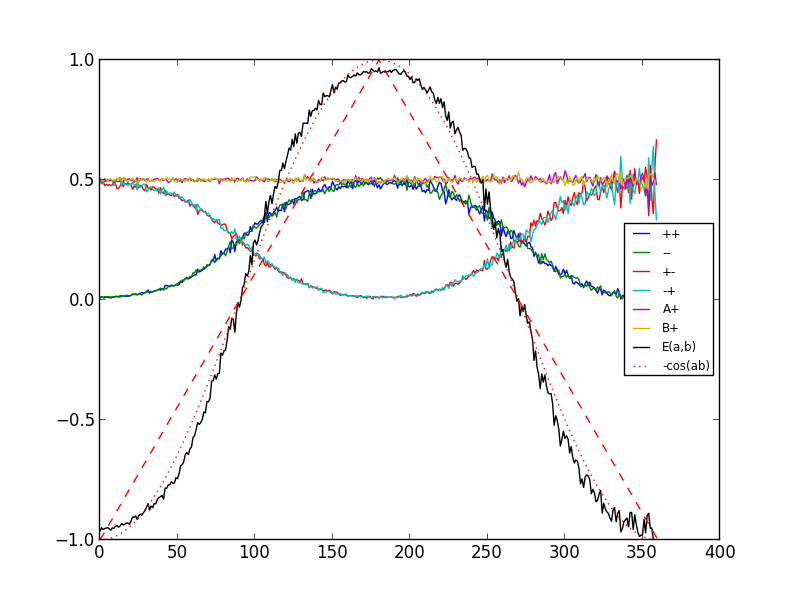
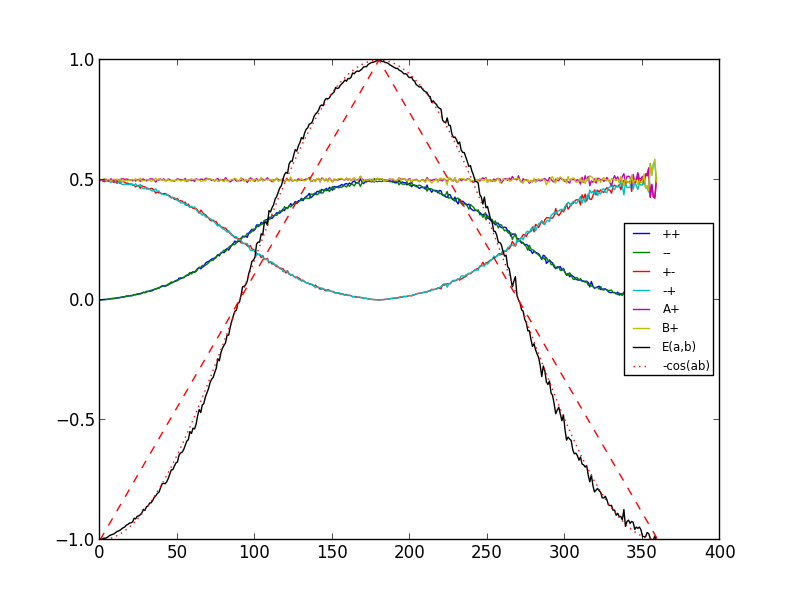
improved the model

diff --git a/epr.py b/epr.py
@@ -40,51 +40,53 @@ class ProgressMeter(object):
 
 class Source(object):
     """Generate and emit two particles with hidden variables"""
-    def __init__(self, spin=0.5, phase=numpy.pi):
+    def __init__(self, spin=1, phase=numpy.pi):
         self.spin = spin
         self.phase = phase
         
     def emit(self):
         e = numpy.random.uniform(0.0,2*numpy.pi)
-        p1 = numpy.random.uniform(0.0, 1.0)
-        p2 = numpy.random.uniform(0.0, 1.0)
+        #p1 = numpy.random.normal(loc=0.5, scale=0.25)
+        p1 = numpy.random.uniform(0.0, 1.0) 
+        p2 = 1 - p1                 # complementary entangled particles
         lp = (e, p1, self.spin)  # Left particle        
-        rp = (self.phase + e, p2, self.spin)  # Right particle
+        rp = (e+self.phase, p2, -self.spin)  # Right particle
         return lp, rp
 
 class Station(object):
     """Detect a particle with a given/random setting"""
-    def __init__(self, fixed_angle=None):
+    def __init__(self):
         """Initialize with fixed_angle, otherwise random fast switching will be used"""
         self.results = numpy.empty((NUM_ITERATIONS, 2))  # columns: angle, +1/-1/0 outcome
         self.results.fill(numpy.nan)
         self.count = 0
-        self.fixed_angle = fixed_angle
         
     def get_setting(self):
         """Return the current detector setting"""
-        if self.fixed_angle is None:
-            return numpy.random.uniform(0.0,numpy.pi*2)
-        else:
-            return self.fixed_angle
+        return numpy.random.uniform(0.0,numpy.pi*2)
         
     def detect(self, particle):
         """Calculate the station outcome for the given `particle`"""
         a = self.get_setting()
         e, p, s = particle
-        C = numpy.cos(s*(e - a))**2 - p
-        tau = s + numpy.random.normal(scale=0.18) # add some detector noise
-        if abs(C) > tau:
-            out = numpy.sign(C)
+        g = numpy.sign(s)
+        n = 2*abs(s)
+        C = ((-1)**n)*numpy.cos(n*(a-e))/2.0
+        Cd = (abs(C) + 0.5)**2
+        if g < 0:  Cd = 1 - Cd # Flip for the other side
+         
+        if (p > Cd and g > 0) or (p < Cd and g < 0):
+            out = 0 # not detected
         else:
-            out = 0.0             
+            out = numpy.sign(C)
+                        
         self.results[self.count] = numpy.array([a, out]) # save angle, outcome pair
         self.count += 1
 
 
 class Simulation(object):
     def __init__(self):
-        self.source = Source(spin=0.5, phase=numpy.pi)
+        self.source = Source(spin=0.5)
         self.alice = Station()
         self.bob = Station()
         
@@ -101,12 +103,14 @@ class Simulation(object):
         numpy.save("Alice", self.alice.results)
         numpy.save("Bob", self.bob.results)
 
-    def analyse(self):
+    def analyse(self, load=False):
         """select coincidences and calculate probabilities for each angle diff"""
-        alice = self.alice.results
-        bob = self.bob.results
-        #alice = numpy.load('Alice.npy') # angle, outcome 
-        #bob = numpy.load('Bob.npy')  # angle, outcome 
+        if not load:
+            alice = self.alice.results
+            bob = self.bob.results
+        else:
+            alice = numpy.load('Alice.npy') # angle, outcome 
+            bob = numpy.load('Bob.npy')  # angle, outcome 
         ab = alice[:,0] - bob[:,0]
         abdeg = numpy.round(numpy.degrees(ab))
         sl_pp = ((alice[:,-1] == +1.0) & (bob[:,-1] == +1.0))
@@ -117,8 +121,9 @@ class Simulation(object):
         sl_bp = (bob[:,-1] == +1.0)
         sl_am = (alice[:,-1] == -1.0)
         sl_bm = (bob[:,-1] == -1.0)
-        sl_nd = ((alice[:,-1] == 0.0) | (bob[:,-1] == 0.0))
-
+        sl_nd = ((alice[:,-1] != 0.0) | (bob[:,-1] != 0.0))
+        sl_nc = ((alice[:,-1] != 0.0) & (bob[:,-1] != 0.0))
+        
         pp = abdeg[sl_pp]
         mm = abdeg[sl_mm]
         pm = abdeg[sl_pm]
@@ -141,7 +146,10 @@ class Simulation(object):
         sl_opp = (abdeg == 180.0) & ((alice[:,-1] != 0.0) & (bob[:,-1] != 0.0))
         ysame = (alice[sl_same,1] *  bob[sl_same,1]).mean()
         yopp = (alice[sl_opp,1] *  bob[sl_opp,1]).mean()
-        #print "Not detected %0.4f" % (len(abdeg[sl_nd])/float(len(abdeg)))
+        ceff = 100.0*(1 - len(abdeg[sl_nc])/float(len(abdeg[sl_nd])))
+        aeff = 100.0*(1 - len(abdeg[sl_nd])/float(len(abdeg)))
+        print "Absolute Efficiency %0.4f %%" % (aeff)
+        print "Conditional efficiency %0.4f %%" % (ceff)
         print "Same Angle <AB> = %0.4f, QM = -1.0" % (ysame)
         print "Opposite Angle <AB> = %0.4f, QM = 1.0" % (yopp)
         
@@ -202,5 +210,9 @@ class Simulation(object):
            
 if __name__ == '__main__':
     sim = Simulation()
-    sim.run()
-    sim.analyse()        
+    if len(sys.argv) == 1:
+        sim.run()
+        load = False
+    else:
+        load = True
+    sim.analyse(load)        
